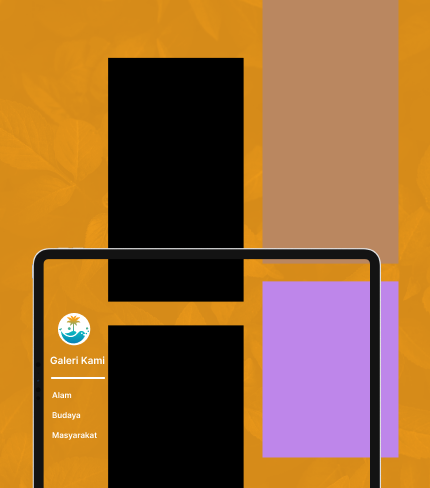
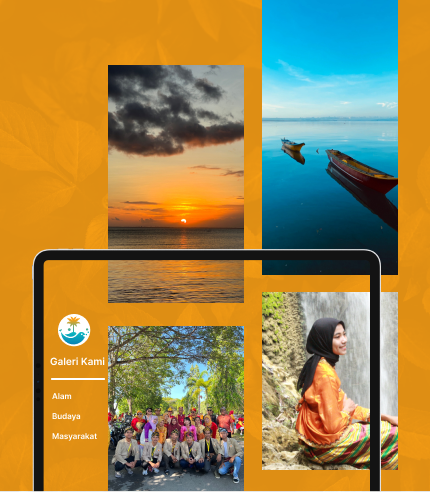
benerin responsive galeri

diff --git a/frontend/src/style/_responsive.scss b/frontend/src/style/_responsive.scss
@@ -160,20 +160,22 @@
 @media screen and (max-width: 800px) {
   .galeri {
     // height: 50vh;
+    // background-color: red;
     .galeri-hero-image {
       background-image: url('../asset/galeri-header-mobile.png');
       background-size: 100%;
       background-repeat: no-repeat;
-      height: 80vh;
+      height: 55vh;
+      // background-color: #0883b2;
       h1 {
-        font-size: 8rem;
-        top: 28%;
+        font-size: 6.5rem;
+        top: 50%;
         right: 50%;
-        transform: translate(50%, -50%);
+        transform: translate(50%, -100%);
       }
     }
     .galeri-content {
-      padding: 1em 0;
+      // padding: 1em 0;
     }
   }
 }
